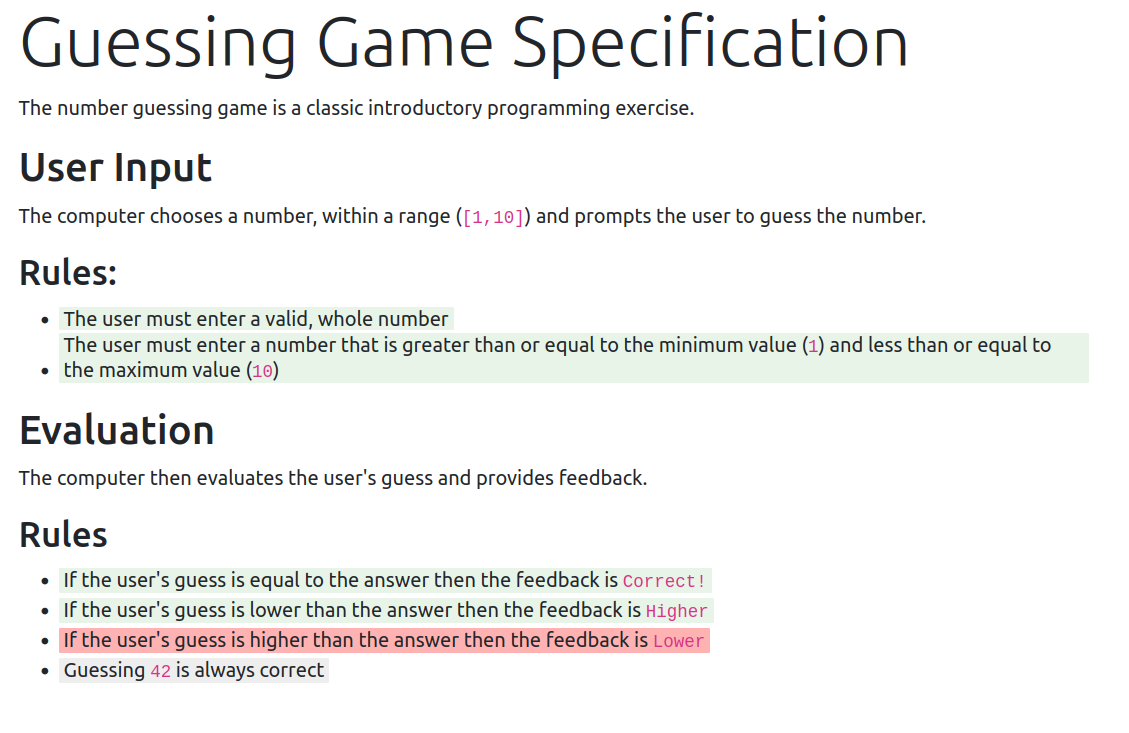
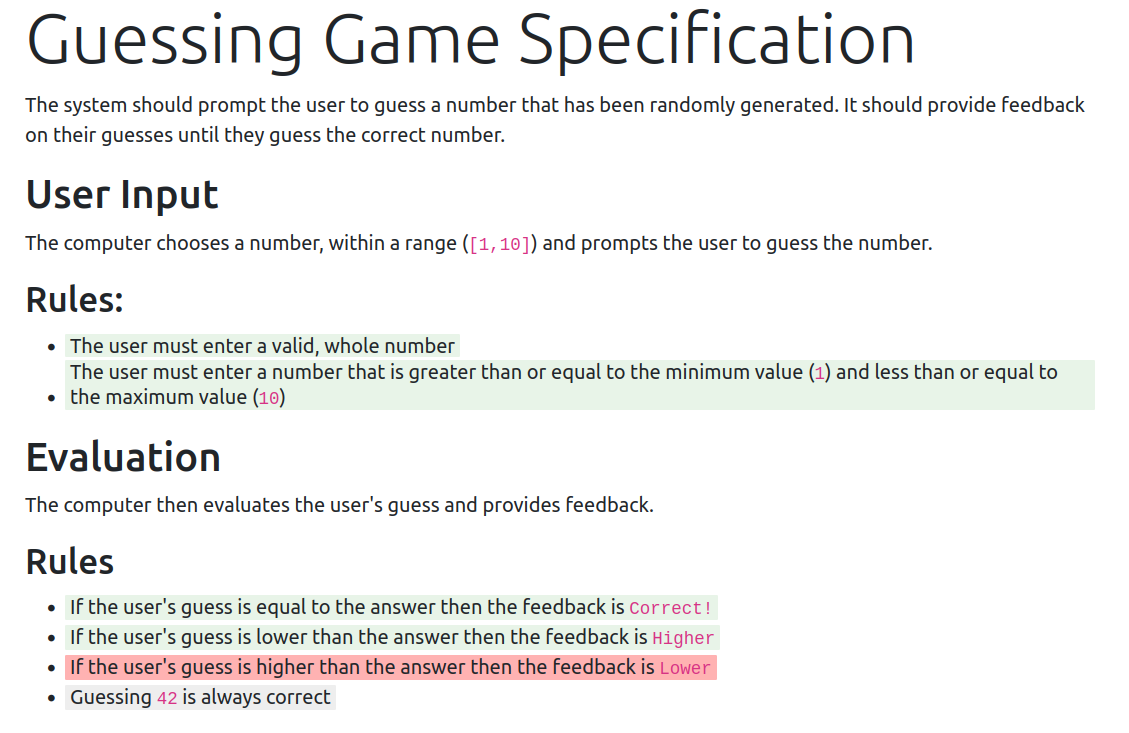
specs

Changed region(s): [[0.0, 0.0, 0.961, 0.9604]]

diff --git a/contents/articles/2024-06-13-making-living-specifications-work/index.md b/contents/articles/2024-06-13-making-living-specifications-work/index.md
@@ -1,47 +1,49 @@
 ---
-title: The Missing Piece that Makes Living Specifications Work
+title: Making Living Specifications Work
 author: Liam McLennan
 date: 2024-06-13 20:32
 template: article.jade
 ---
 
-It has bugged me for years that software projects are not defined anywhere - except in the code - and that is not a human readable specification. 
+It has bugged me for years that software projects are not properly defined anywhere - except in the code - and that is not a human readable specification. 
 
-What if the solution that makes living specifications work is:
+Complex, long-lived computer programs are easier to extend and maintain if they have a clear, verified, specification. Specifications are valuable, but they, "are not a natural byproduct of incremental development" (thanks Andrew Best). 
 
-> 1. let specification writers write specifications how they want
-> 2. let software developers write automated tests how they want
-> 3. map the specificaton statements to the tests that verify them
+For [various reasons](/articles/2024-06-04-living-specification/) the industry has drifted away from producing specifications, however it seems there may be a practical way to make specifications useful.
 
-This just adds some rigour to the idea of [readme driven development](https://tom.preston-werner.com/2010/08/23/readme-driven-development). As Tom Preston-Warner says, "a perfect implementation of the wrong specification is worthless... a beautifully crafted library with no documentation is also damn near worthless".
+What if we:
 
-Here is an example. 
+1. let specification writers write specifications the way that they want?
+1. let software developers write automated tests the way that they want?
+1. map the specificaton statements to the tests that verify them and publish the result?
+
+This adds rigour to the idea of [readme driven development](https://tom.preston-werner.com/2010/08/23/readme-driven-development). As Tom Preston-Warner said, "a perfect implementation of the wrong specification is worthless... a beautifully crafted library with no documentation is also damn near worthless".
+
+We can explore this idea with a simple example.
 
 The Number Guessing Game
 --------
 
-The number guessing game is a classic early programming exercise to write a program that prompts a user to guess a number. It is not fun, but it is easy to understand. 
+The number guessing game is a classic early programming exercise to write a program that prompts a user to guess a number. 
 
 ![Guessing game in terminal](guessinggame.png)
 
-The product owner may have written the following specification:
+The product owner writes the following specification:
 
----------------
-
-<div class="col col-lg-8" style="background-color: antiquewhite; padding: 20px; border-radius: 10px;">
+<div class="col col-lg-8" style="background-color: antiquewhite; padding: 20px; border-radius: 0.25em;
+background-image: url(paper.png);">
         <h1 class="display-4">Guessing Game Specification</h1>
-        <p>
-            </p><p>The number guessing game is a classic introductory programming exercise.</p>
+<p>The system should prompt the user to guess a number that has been randomly generated. It should provide feedback on their guesses until they guess the correct number.</p>
 <h2 id="user-input">User Input</h2>
 <p>The computer chooses a number, within a range (<code>[1,10]</code>) and prompts the user to guess the number.</p>
-<h3 id="rules">Rules:</h3>
+<h2 id="rules">Rules:</h2>
 <ul>
 <li><span data-bp-grep="WholeNumbersInRangeAreValid,NotWholeNumbersAreInvalid" data-bp-outcome="Undefined">The user must enter a valid, whole number</span></li>
 <li><span data-bp-grep="WholeNumbersOutOfRangeAreInvalid" data-bp-outcome="Undefined">The user must enter a number that is greater than or equal to the minimum value (<code>1</code>) and less than or equal to the maximum value (<code>10</code>)</span></li>
 </ul>
 <h2 id="evaluation">Evaluation</h2>
 <p>The computer then evaluates the user's guess and provides feedback.</p>
-<h3 id="rules-1">Rules</h3>
+<h2 id="rules-1">Rules</h2>
 <ul>
 <li><span data-bp-grep="ValidGuessesEqualToAnswerSayCorrectBang" data-bp-outcome="Undefined">If the user's guess is equal to the answer then the feedback is <code>Correct!</code></span></li>
 <li><span data-bp-grep="ValidGuessesLowerThanAnswerSayHigher" data-bp-outcome="Undefined">If the user's guess is lower than the answer then the feedback is <code>Higher</code></span></li>
@@ -49,12 +51,13 @@ The product owner may have written the following specification:
 <li><span data-bp-grep="Guessing42IsAlwaysCorrect" data-bp-outcome="Undefined">Guessing <code>42</code> is always correct</span></li>
 </ul>
 
-        <p></p>
-    </div>
+<p></p>
+</div>
 
--------------
+<p></p>
 
-The developer then implements the program and produces the following tests:
+
+The developer then implements the program and produces the following tests (implementations elided as irrelevant):
 
 ```csharp
 public class UserInputTests
@@ -91,6 +94,12 @@ public class EvaluationTests
 }
 ```
 
-In this simple example it is easy to see the implied mapping between statements in the specification and the unit tests. If we add metadata to the specification we can map each of its claims to the test or tests that verify them and produce a verified specification:
+In this simple example it is easy to see the implied mapping between statements in the specification and the unit tests. Each bullet point in the specification maps to a single unit test, except for the first statement, `The user must enter a valid, whole number`, which maps to two unit tests: `WholeNumbersInRangeAreValid` and `NotWholeNumbersAreInvalid`.
+
+If we add metadata to the specification, we can map each of its claims to the test, or tests, that verify them and then produce a verified specification:
 
 ![A verified specification](verified-spec.png)
+
+All claims in the specification are highlighted. Those that have been successfully verified by the tests are green. Those that failed their tests are red, and those linked to tests that were skipped are gray. 
+
+Having a living specification completes the link between work that developers do and the purpose of the system they are working on. It encourages the team to think before doing, and provides visibility of what the system does, what works, what doesn't, and what has not been done yet. 
